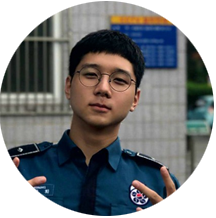
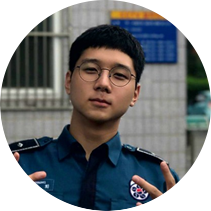
Profile Upgrade

Changed region(s): [[0.0, 0.0, 1.0, 1.0], [0.1422, 0.654, 0.1991, 0.7109], [0.2844, 0.0284, 0.3412, 0.0569]]

diff --git a/css/creative.css b/css/creative.css
@@ -40,7 +40,7 @@ h6 {
 
 h1 {
   font-family: 'Montserrat', sans-serif;
-  
+
 }
 
 .bg-primary {
@@ -242,12 +242,12 @@ header.masthead p {
   display: block;
   max-width: 650px;
   text-align:center;
-  padding:10px;             
-  
+  padding:10px;
+
 }
 
 #portfolio {
-  
+
 }
 
 .portfolio-box .portfolio-box-caption {
@@ -283,7 +283,7 @@ header.masthead p {
   opacity: 0.8;
   padding: 0 15px;
   font-family: 'Open Sans', 'Helvetica Neue', Arial, sans-serif;
-  
+
 }
 
 .portfolio-box .portfolio-box-caption .portfolio-box-caption-content .project-category {
@@ -358,8 +358,8 @@ header.masthead p {
     height: 200px;
     margin: 20px;
     border-radius: 0%;
-    
-    
+
+
 }
 
 .cent{
@@ -412,14 +412,14 @@ p .mb-5 {
 	margin: 20px;
 }
 .ch-item {
-	width: 100%;
-	height: 100%;
+	width: 95%;
+	height: 95%;
 	border-radius: 50%;
 	overflow: hidden;
 	position: relative;
 	cursor: default;
 	box-shadow:
-		inset 0 0 0 16px rgba(255,255,255,0.6),
+		inset 0 0 0 10px rgba(255,255,255,0.6),
 		0 1px 2px rgba(0,0,0,0.1);
 	transition: all 0.4s ease-in-out;
 }
@@ -453,6 +453,7 @@ p .mb-5 {
 	opacity: 0;
 	transition: all 0.4s ease-in-out;
 	transform: scale(0);
+	padding-left: 13px;
 }
 .ch-info h3 {
 	color: #fff;
@@ -496,7 +497,7 @@ p .mb-5 {
 		0 1px 2px rgba(0,0,0,0.1);
 }
 .ch-item:hover .ch-info {
-	transform: scale(1);
+	transform: scale(1.12);
 	opacity: 1;
 }
 .ch-item:hover .ch-info p {
@@ -512,7 +513,7 @@ p .mb-5 {
 	font: bold 16px sans-serif;
 	padding: 55px 50px;
 	margin-top: 80px;
-	height: 250px;
+	height: auto;
 }
 
 .footer-distributed .footer-left,

diff --git a/index.html b/index.html
@@ -244,6 +244,11 @@
           </div>
         </div>
       </li>
+    </ul>
+
+  </body>
+  <body>
+    <ul class="ch-grid">
       <li>
         <div class="ch-item ch-img-4">
           <div class="ch-info">
